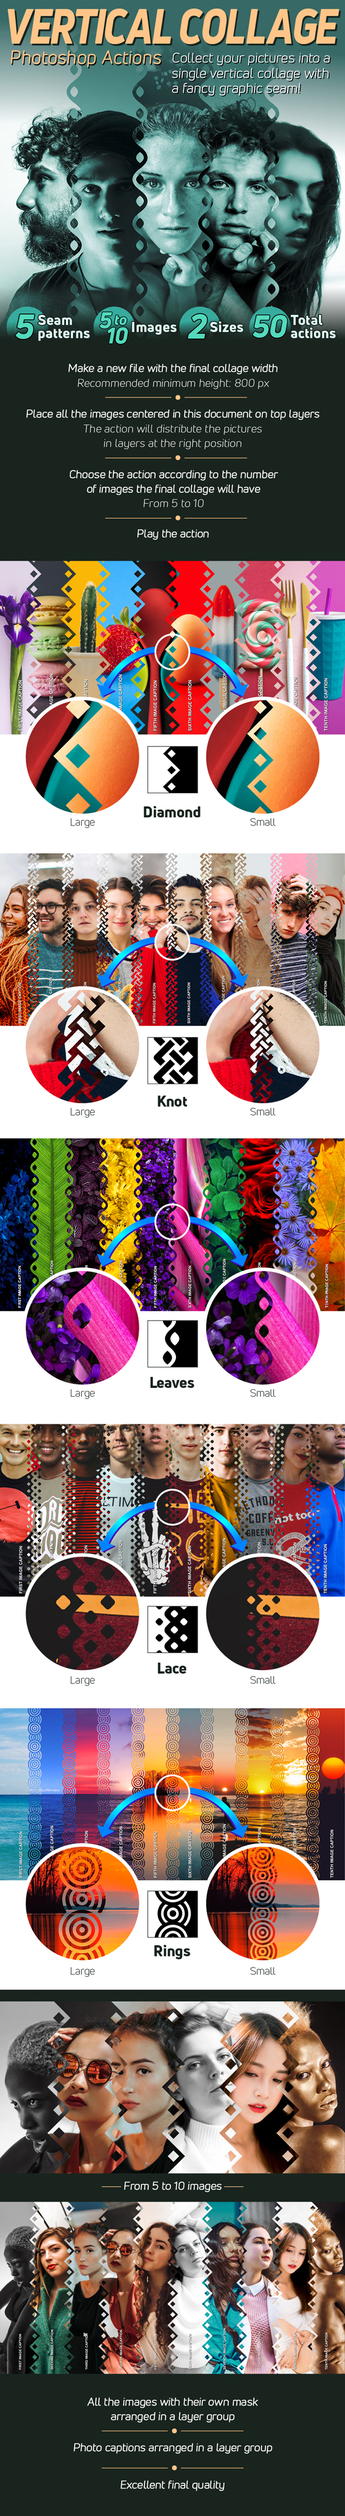
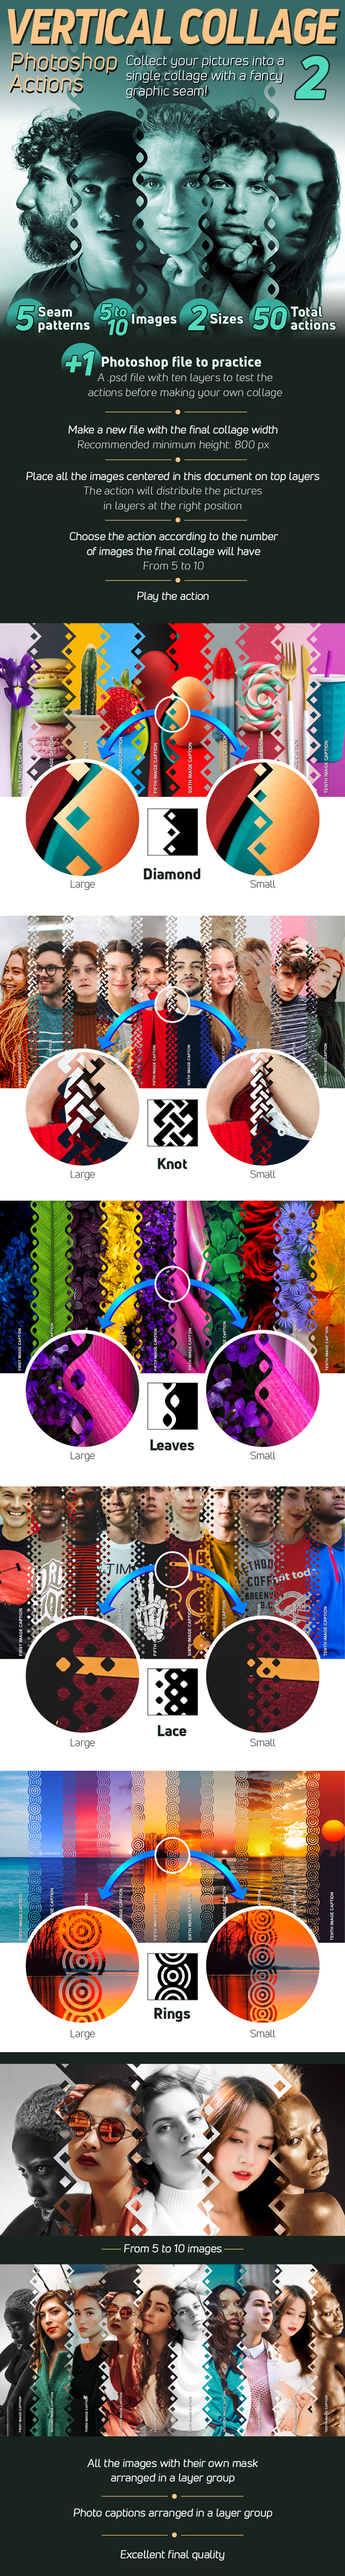
updt

diff --git a/collage_html/index 1.html b/collage_html/index 1.html
@@ -20,7 +20,7 @@
 				<li>= 50 total actions</li>
 				<li><strong>Non-destructive:</strong> keeps the original images untouched</li>
                 <li>Well arranged masked image layers</li>
-				<li>Separated Caption Text Layer's Group</li>
+				<li>Separated caption text layer's group</li>
 				
 			</ul>
 </div>
@@ -42,8 +42,8 @@
 <li>9_VERTICAL_COLLAGE_2_SMALL.atn </li>
 <li>10_VERTICAL_COLLAGE_2_SMALL.atn</li></ul></li>
 <li>1 Brush set file:
-<ul><li>SEAM_PATTERN.abr</li></ul></li>
-<li>1 Photoshop File to test
+<ul><li>SEAM_PATTERN_2.abr</li></ul></li>
+<li>1 Photoshop File to test the actions
 <ul><li>VERTICAL_COLLAGE.psd</li></ul></li>
 <li>1 PDF Help File</li>
 <li>1 tutorial video link</li></ul>
@@ -87,7 +87,7 @@ Click the Mask Thumbnail to move vertically the seam pattern
 <h3 style="color:#054F6D">Instructions:</h3>
 <ul  style="color:#bababa; margin-left:30px;">
 <li>   
-Make a new file with the final document size. Any height is posible.</li>
+Make a new file with the final document size. Prefered minimum height = 800 px.</li>
 <li>
 Go to the menu <strong>View &#8594; Rulers</strong> and from the left ruler drag a vertical guide until the document center</li><li>
 Distribute the images that will make up the collage in the upper layers by copy-pasting from other open documents or placing them from the menu <strong>File &#8594; Place Embedded</strong>.</li><li>
